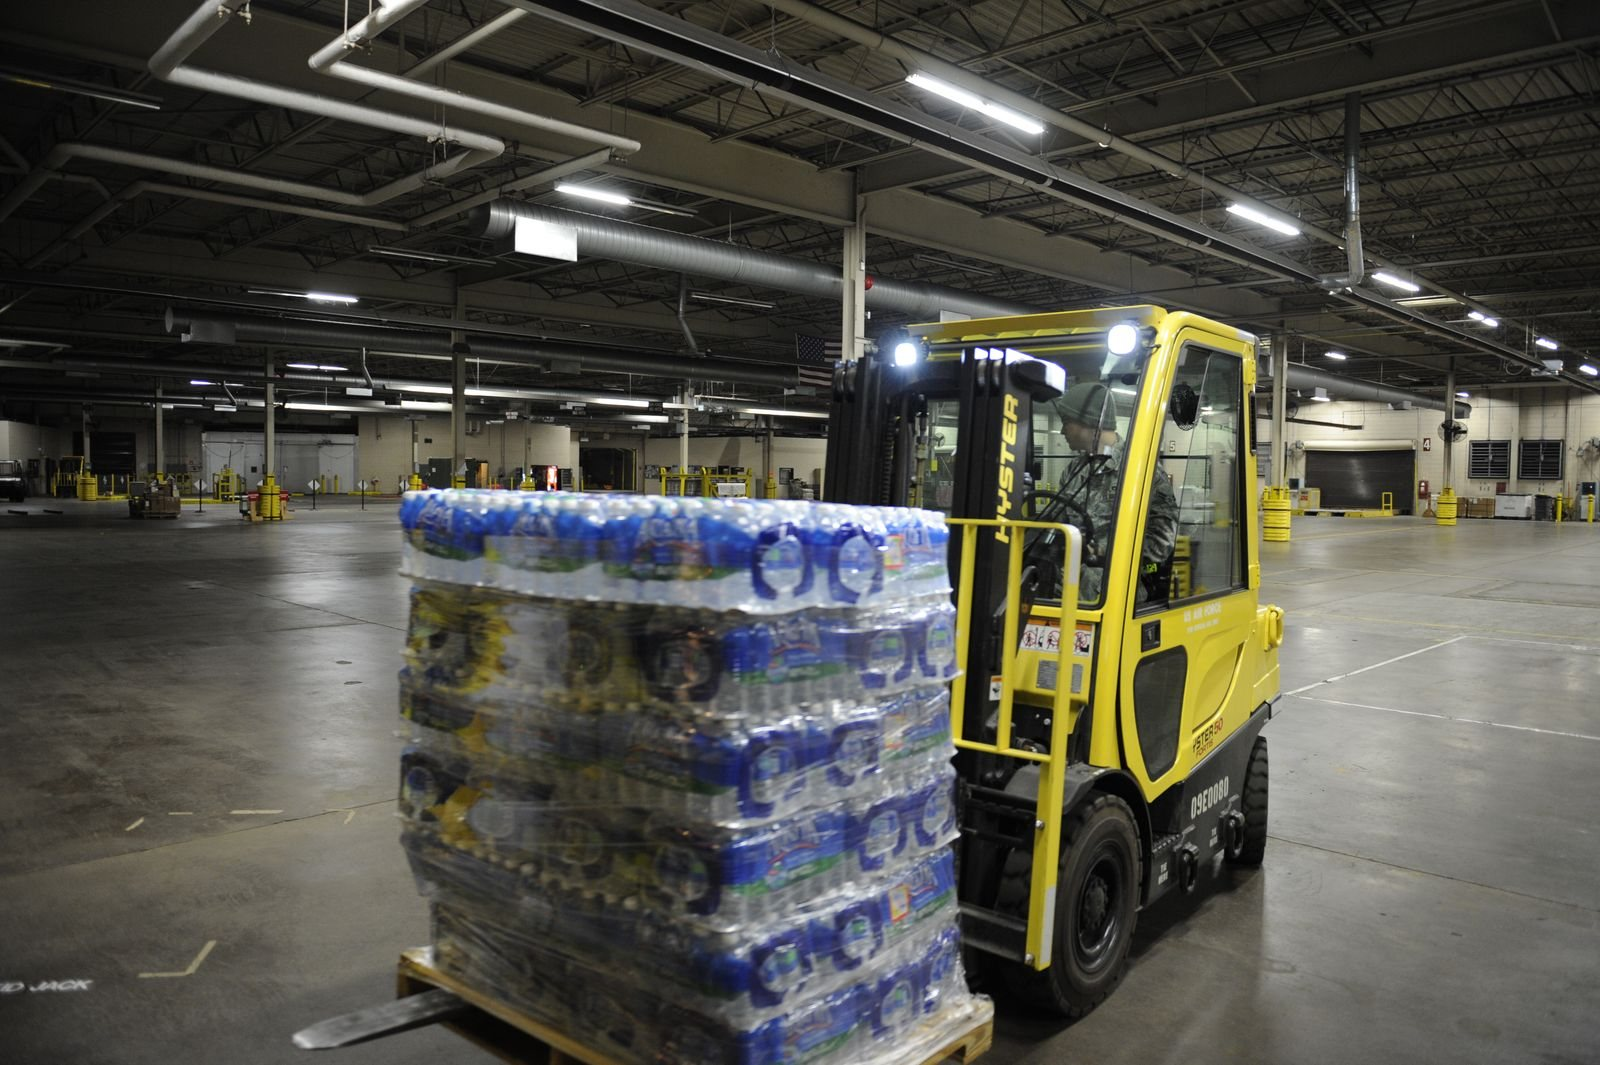
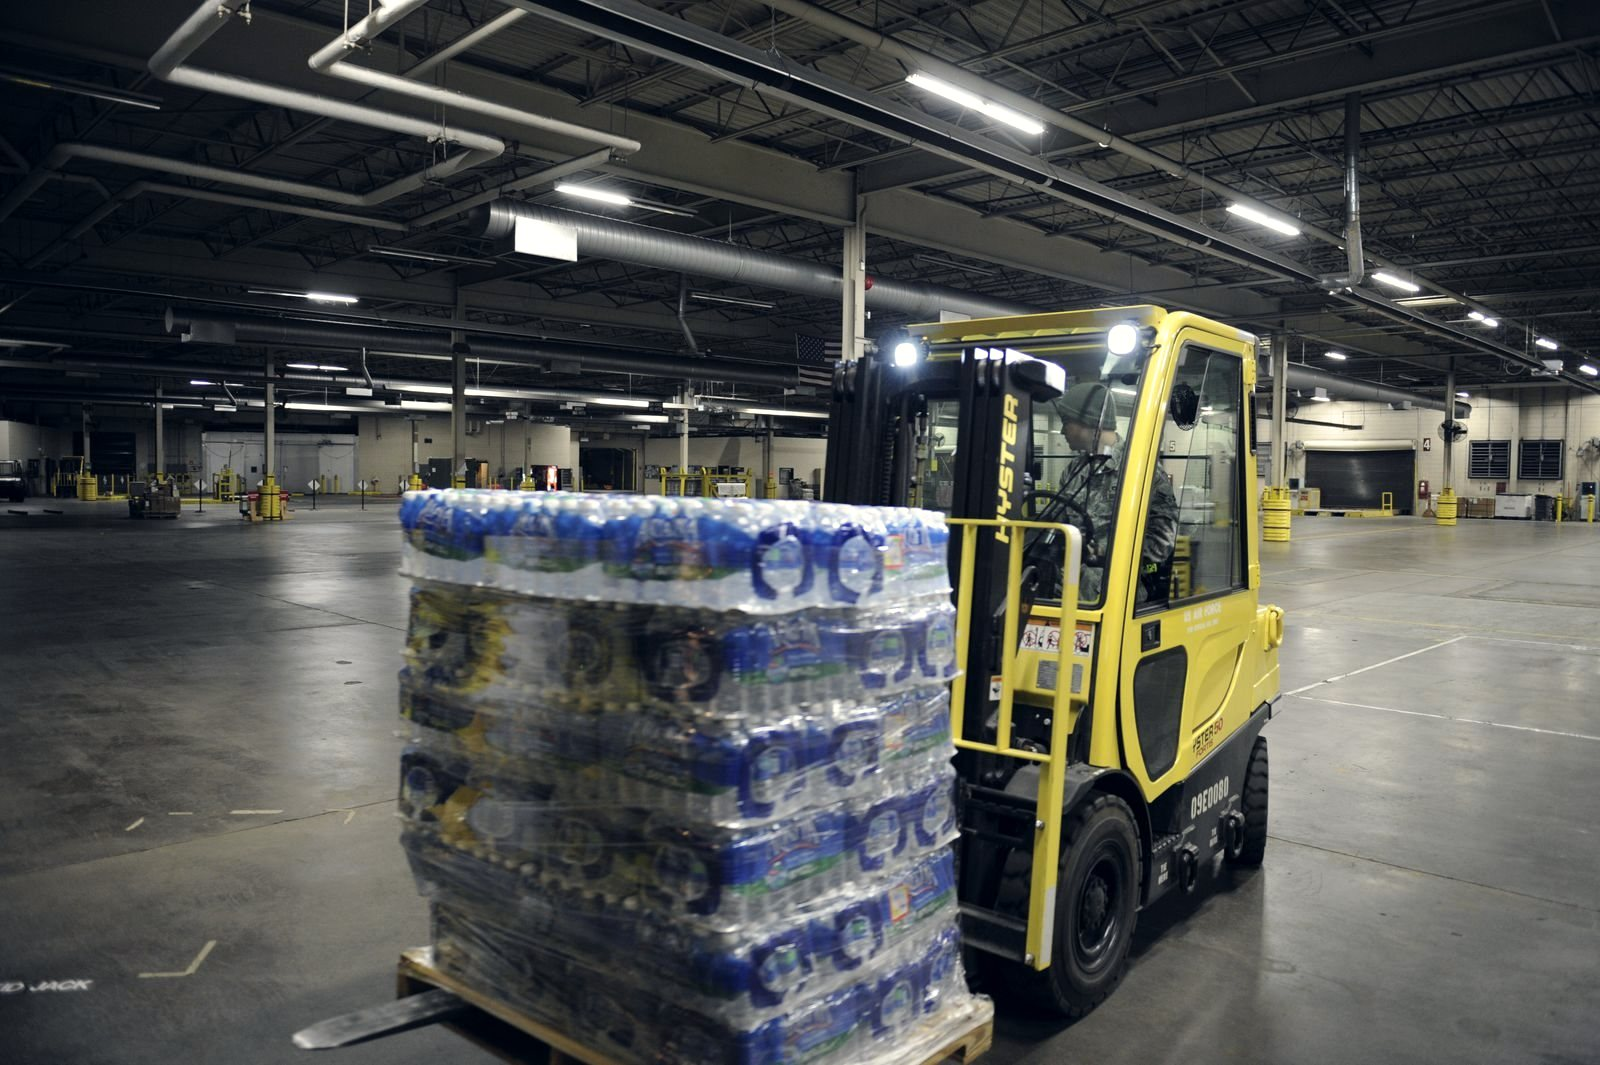
Путь груза на главной: шесть своих кадров вместо общих из библиотеки
Просьба была показать, как с завода грузят контейнер, как его везут, как
перегружают на судно и что дальше. Раздел был, но стоял на кадрах из общей
библиотеки: на первом шаге machinery, который встречался ещё на девяти
страницах, дальше terminal и vessel, тоже не про этот рассказ. Получалось,
что текст про шесть передач груза, а картинки про что угодно.

Теперь у каждого шага свой кадр, нигде больше не использованный:

  01 завод      j-works     погрузчик с паллетами в складском корпусе
  02 контейнер  j-stuffing  контейнер на стропах над причалом
  03 дорога     j-road      седельный тягач с контейнером на трассе
  04 причал     j-quay      причальные краны у борта судна, Окленд
  05 море       j-sea       контейнеровоз в море
  06 порт       j-arrival   портовый перегружатель, Бремерхафен

Все шесть CC0, от 1400 до 2400 пикселей по ширине против прежних 546.
Отбирались глазами по контактным листам: на запрос «factory loading dock»
поиск однажды выдал церемонию награждения на конференции и два
классических автомобиля, поэтому выбирать по описанию нельзя.

Кадры взяты по категориям Викисклада, а не поиском: в «Container cranes»
лежат контейнерные краны, потому что их туда положили руками. Сами файлы
идут через общедоступный пережиматель, так как Викисклад держит
ограничение на весь наш выходной адрес.

Claude-Session: https://claude.ai/code/session_0151ZApF1udXvgWuNKWDLg8z

Changed region(s): [[0.5938, 0.2789, 0.8125, 0.8676], [0.875, 0.4648, 0.9062, 0.4958]]

diff --git a/site/index.html b/site/index.html
@@ -442,43 +442,43 @@ footer{background:var(--black);padding:clamp(50px,8vh,90px) var(--gut) 40px;bord
     </div>
     <ol class="jsteps">
       <li>
-        <figure><picture><source srcset="media/machinery.webp" type="image/webp">
-          <img src="media/machinery.jpg" alt="Production floor at a supplying works" loading="lazy" decoding="async"></picture></figure>
+        <figure><picture><source srcset="media/j-works.webp" type="image/webp">
+          <img src="media/j-works.jpg" alt="Production floor at a supplying works" loading="lazy" decoding="async"></picture></figure>
         <div><span class="k">01</span><h3>At the works</h3>
           <p>The producer is found, verified and put under a specification before a price is quoted.
              Admissibility for your country is settled here, not at the border.</p></div>
       </li>
       <li>
-        <figure><picture><source srcset="media/loading-truck.webp" type="image/webp">
-          <img src="media/loading-truck.jpg" alt="Goods loaded into a container at the works" loading="lazy" decoding="async"></picture></figure>
+        <figure><picture><source srcset="media/j-stuffing.webp" type="image/webp">
+          <img src="media/j-stuffing.jpg" alt="Goods loaded into a container at the works" loading="lazy" decoding="async"></picture></figure>
         <div><span class="k">02</span><h3>Into the box</h3>
           <p>Stuffing, dunnage, weight distribution and the packing list are agreed in advance.
              A container loaded badly is a claim that arrives three weeks later.</p></div>
       </li>
       <li>
-        <figure><picture><source srcset="media/truck-road.webp" type="image/webp">
-          <img src="media/truck-road.jpg" alt="Container moving by road to the port" loading="lazy" decoding="async"></picture></figure>
+        <figure><picture><source srcset="media/j-road.webp" type="image/webp">
+          <img src="media/j-road.jpg" alt="Container moving by road to the port" loading="lazy" decoding="async"></picture></figure>
         <div><span class="k">03</span><h3>By road to the port</h3>
           <p>The inland leg is booked against the sailing, not after it. Detention and demurrage
              are quoted as lines, not discovered as invoices.</p></div>
       </li>
       <li>
-        <figure><picture><source srcset="media/terminal.webp" type="image/webp">
-          <img src="media/terminal.jpg" alt="Ship-to-shore cranes working a container vessel" loading="lazy" decoding="async"></picture></figure>
+        <figure><picture><source srcset="media/j-quay.webp" type="image/webp">
+          <img src="media/j-quay.jpg" alt="Ship-to-shore cranes working a container vessel" loading="lazy" decoding="async"></picture></figure>
         <div><span class="k">04</span><h3>At the quay</h3>
           <p>Cut-off, documents and the bill of lading line up on the same date.
              One missing certificate here holds the whole consignment.</p></div>
       </li>
       <li>
-        <figure><picture><source srcset="media/vessel.webp" type="image/webp">
-          <img src="media/vessel.jpg" alt="Container vessel under way at sea" loading="lazy" decoding="async"></picture></figure>
+        <figure><picture><source srcset="media/j-sea.webp" type="image/webp">
+          <img src="media/j-sea.jpg" alt="Container vessel under way at sea" loading="lazy" decoding="async"></picture></figure>
         <div><span class="k">05</span><h3>At sea</h3>
           <p>Transit is tracked and transhipment is named in advance. You are told a twelve week
              lead time when it is twelve, not six.</p></div>
       </li>
       <li>
-        <figure><picture><source srcset="media/straddle.webp" type="image/webp">
-          <img src="media/straddle.jpg" alt="Container handled in the yard at the destination port" loading="lazy" decoding="async"></picture></figure>
+        <figure><picture><source srcset="media/j-arrival.webp" type="image/webp">
+          <img src="media/j-arrival.jpg" alt="Container handled in the yard at the destination port" loading="lazy" decoding="async"></picture></figure>
         <div><span class="k">06</span><h3>At your port</h3>
           <p>Discharge, customs and release on the agreed Incoterm, with the document set
              arriving with the goods rather than after them.</p></div>

diff --git a/tools/journey-photos.py b/tools/journey-photos.py
@@ -1,0 +1,60 @@
+# -*- coding: utf-8 -*-
+"""Привязать шесть шагов пути груза к своим кадрам.
+
+Раздел «From the works to your port» показывал кадры, взятые из общей
+библиотеки: machinery на первом шаге стоял ещё на десяти других страницах,
+terminal и vessel тоже. Рассказ про шесть передач груза разваливался,
+потому что картинки были не про него и повторялись по сайту.
+
+Теперь у каждого шага свой кадр, отобранный под него и больше нигде не
+использованный. Подмена идёт по имени файла, разметка не трогается.
+
+Запуск: python3.13 tools/journey-photos.py
+"""
+import pathlib, sys
+
+ROOT = pathlib.Path(__file__).resolve().parent.parent
+SITE = ROOT / "site"
+MEDIA = SITE / "media"
+
+# шаг -> было -> стало
+STEPS = [
+    ("01 завод",     "machinery",     "j-works"),
+    ("02 контейнер", "loading-truck", "j-stuffing"),
+    ("03 дорога",    "truck-road",    "j-road"),
+    ("04 причал",    "terminal",      "j-quay"),
+    ("05 море",      "vessel",        "j-sea"),
+    ("06 порт",      "straddle",      "j-arrival"),
+]
+
+
+def main():
+    missing = [new for _, _, new in STEPS if not (MEDIA / f"{new}.jpg").exists()]
+    if missing:
+        print("нет файлов, подмена не делается:", ", ".join(missing))
+        return 1
+
+    p = SITE / "index.html"
+    s = p.read_text()
+    start = s.index('<ol class="jsteps">')
+    end = s.index("</ol>", start)
+    block = s[start:end]
+
+    done = []
+    for label, old, new in STEPS:
+        a, b = f"media/{old}.webp", f"media/{new}.webp"
+        c, d = f"media/{old}.jpg", f"media/{new}.jpg"
+        if a in block or c in block:
+            block = block.replace(a, b).replace(c, d)
+            done.append(f"{label}: {old} -> {new}")
+
+    s = s[:start] + block + s[end:]
+    p.write_text(s)
+    for line in done:
+        print("  ", line)
+    print(f"шагов перепривязано: {len(done)}")
+    return 0
+
+
+if __name__ == "__main__":
+    sys.exit(main())

diff --git a/tools/wc-candidates.py b/tools/wc-candidates.py
@@ -43,18 +43,20 @@ SLOTS = {
     # герой главной
     "port-noir":  ["Ports_at_night", "Container_terminals_at_night", "Harbours_at_night"],
     # стройматериалы: склад и товар, а не карьер и не ручная добыча
-    "build-mat":  ["Bricks_on_pallets", "Bricks", "Concrete_blocks"],
-    "build-site": ["Lumber_yards", "Timber_stacks", "Building_material_shops"],
+    "build-mat":  ["Cement_bags", "Building_materials", "Concrete_blocks"],
+    "build-site": ["Lumber_yards", "Timber_yards", "Sawn_timber"],
     # металл и труба
-    "steel":      ["Steel_pipes", "Steel_tubes", "Pipes_(steel)"],
-    "steel2":     ["Steel_coils", "Rebar", "Steel_products"],
+    "steel":      ["Steel_pipes", "Steel_tubes", "Tubes_(metal)"],
+    "steel2":     ["Steel_coils", "Reinforcing_bars", "Steel_products"],
     # оборудование и инструмент
     "equipment":  ["Machine_tools", "Lathes", "Milling_machines"],
-    "equipment2": ["Industrial_valves", "Industrial_pumps", "Pipework"],
-    "tools":      ["Hand_tools", "Tool_walls", "Toolboxes"],
+    "equipment2": ["Industrial_valves", "Pumps", "Industrial_pipework"],
+    "tools":      ["Hand_tools", "Toolboxes", "Hardware_stores"],
+    # общий кадр для страницы «что мы делаем»: порт, а не автомобильный завод
+    "ops":        ["Container_terminals", "Ports", "Harbours"],
     # прочее
-    "docs":       ["Documents", "Paperwork", "Signing_of_documents"],
-    "agri":       ["Grain_elevators", "Silos", "Grain_terminals"],
+    "docs":       ["Documents", "Business_documents", "Signatures"],
+    "agri":       ["Grain_elevators", "Silos", "Grain_storage"],
     "cold":       ["Cold_storage_warehouses", "Refrigerated_warehouses", "Warehouses"],
 }
 

diff --git a/tools/wc-apply.py b/tools/wc-apply.py
@@ -48,7 +48,10 @@ def fetch_image(url, width):
     часто обращаются. Отличить одно от другого по коду нельзя, оба отдают
     404, поэтому ширина понижается ступенями, а круги повторяются с паузой."""
     bare = url.split("://", 1)[-1]
-    widths = [w for w in (width, 2000, 1600) if w <= width] or [width]
+    # какую ширину пережиматель согласится отдать, заранее не известно: на
+    # одном файле проходит только 1200, на соседнем 2400. Поэтому ступеней
+    # много, и годится первая, которая ответит.
+    widths = [w for w in (width, 2000, 1600, 1400, 1200, 1000) if w <= width] or [width]
     for rnd in range(4):
         for w in widths:
             for p, ua in [
